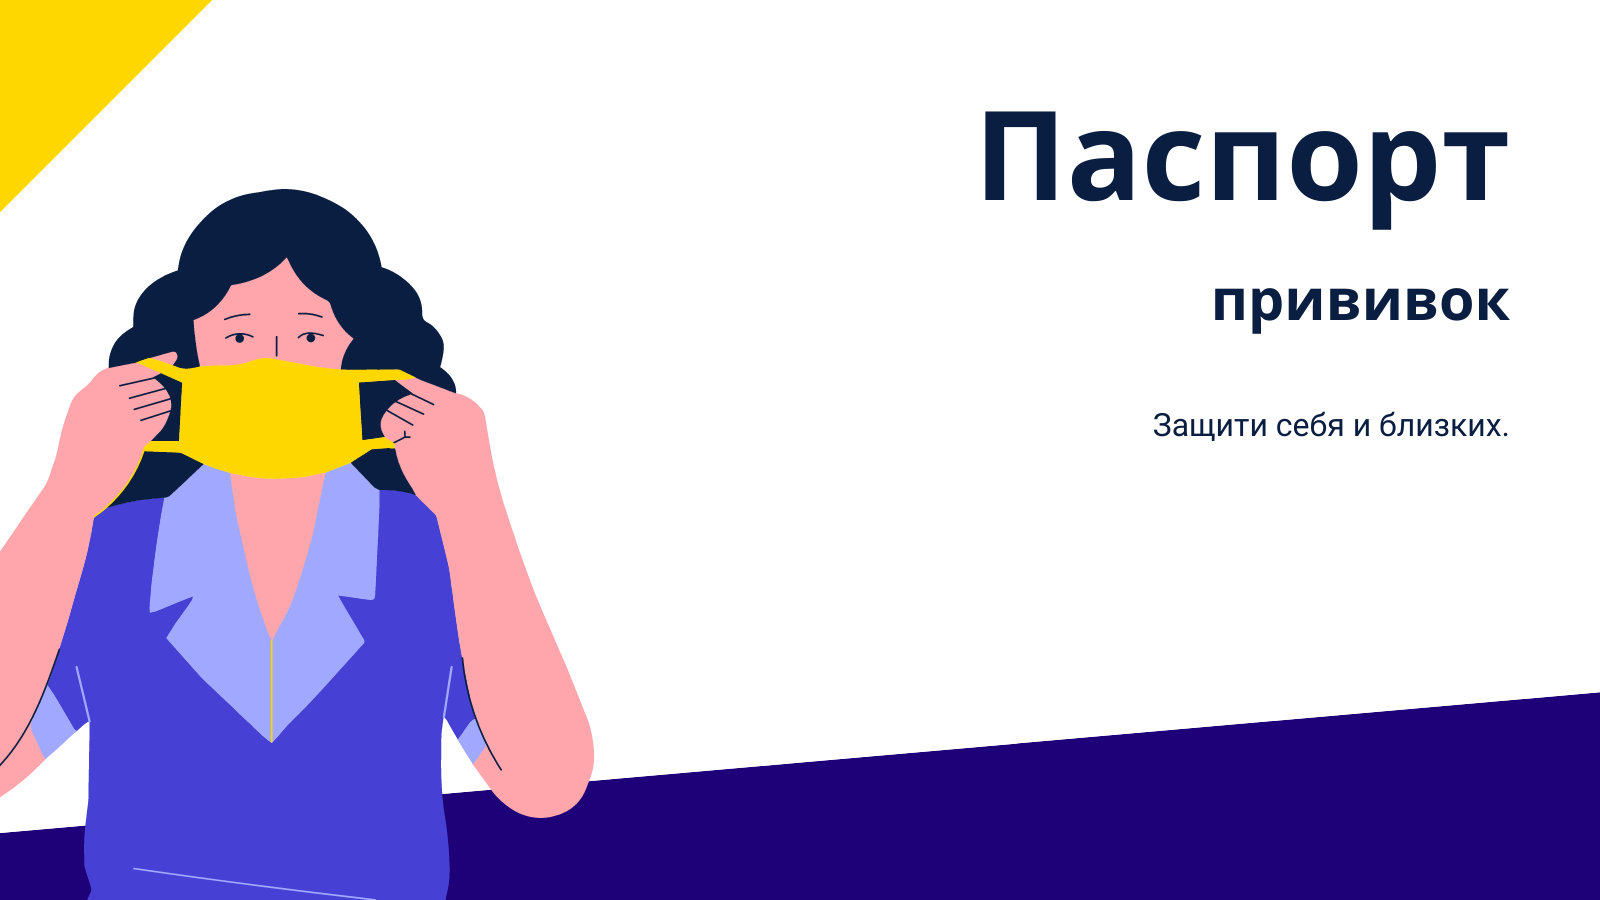
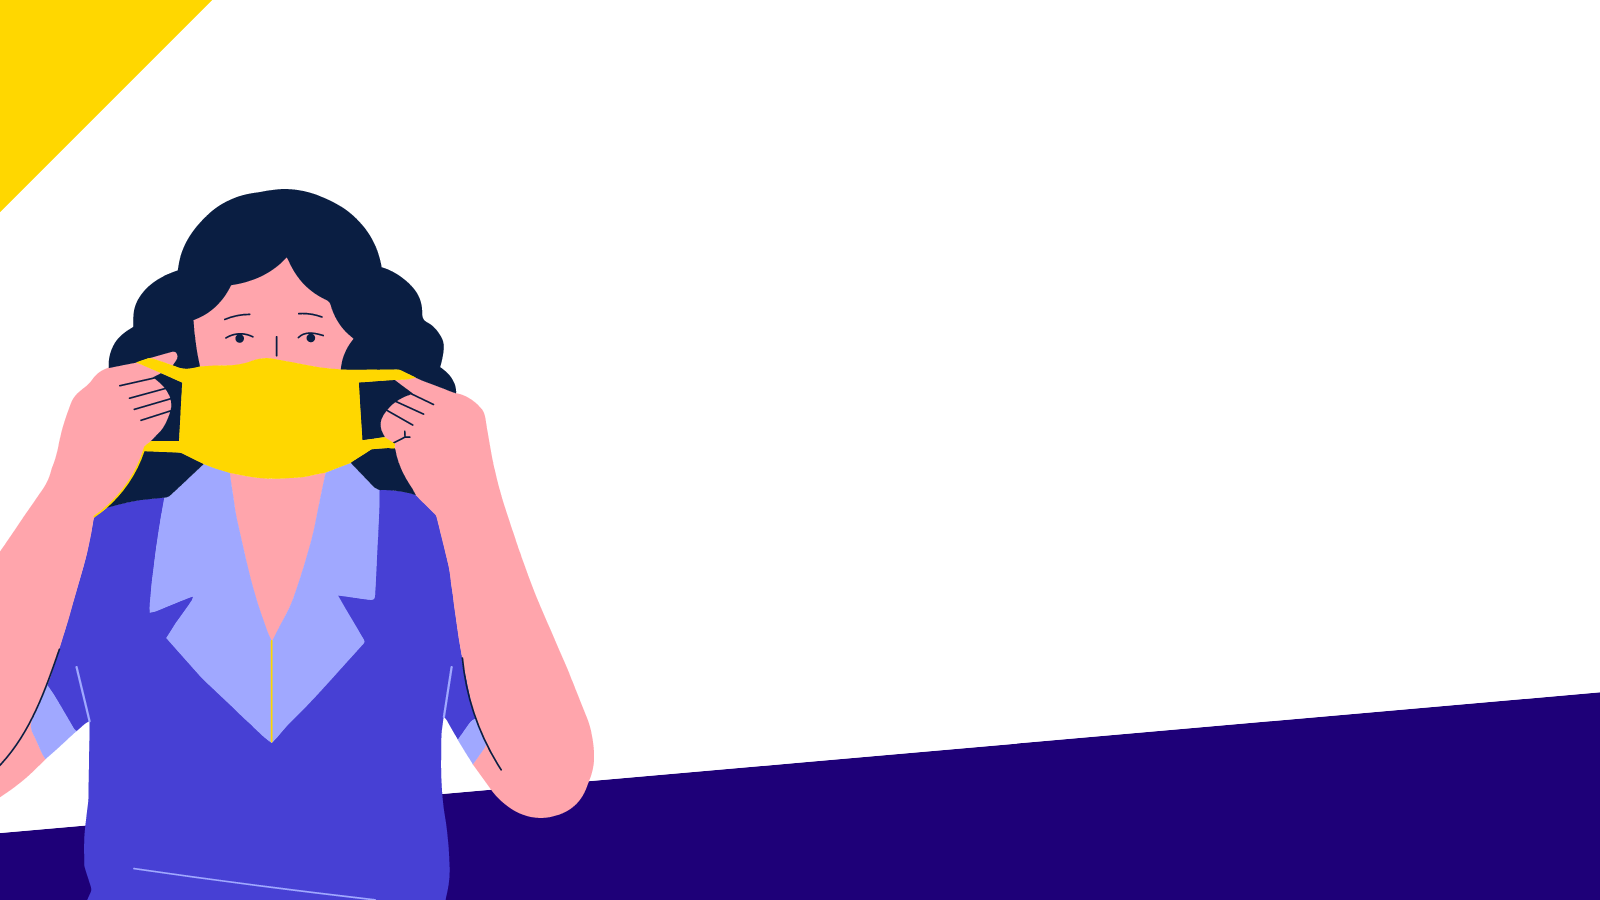
добавил /promo страницу

Changed region(s): [[0.5938, 0.1244, 0.9375, 0.2489], [0.75, 0.3111, 0.9375, 0.3733], [0.7188, 0.4667, 0.9375, 0.4978]]

diff --git a/vaccineapp/templates/vaccineapp/collection_list.html b/vaccineapp/templates/vaccineapp/collection_list.html
@@ -1,53 +1,61 @@
 {% extends 'base.html'%} {% load static %} {%block content%}
-<div class="row">
-  <form method="GET" style="margin-bottom: 50px" class="w-100">
-    <div class="row justify-content-center">
-      <div class="w-80" style="margin-right: 20px">
-        <input
-          name="search"
-          type="text"
-          class="form-control"
-          value="{{request.GET.search}}"
-          id="ajax-search"
-        />
-      </div>
-      <div class="w-30">
-        <input type="submit" value="Search" class="btn btn-success" />
-      </div>
-    </div>
-    {%csrf_token%}
-  </form>
-</div>
-<div class="row" style="margin: 10px;">
-  <div class="col-12">
-    <div class="row justify-content-center" style="margin: 10px;"><button id="ajax-btn" class="btn btn-primary">Ajax</button></div>
-    <div class="row"><div id="AJAX"></div></div>
-  </div>
-  
-</div>
-<div class="row">
-  {%for collection in collection_list%}
-  <div class="col-lg-4 col-md-6 col-sm-12">
-    <div class="article collection__article">
-      <div class="collection__container" onclick="redirect('{{collection.get_absolute_url}}')">
-        <div class="row">
-          <div class="col-md-12"><h2>{{collection.name}}</h2></div>
+
+<main role="main" class="container">
+  <div class="row">
+    <form method="GET" style="margin-bottom: 50px" class="w-100">
+      <div class="row justify-content-center">
+        <div class="w-80" style="margin-right: 20px">
+          <input
+            name="search"
+            type="text"
+            class="form-control"
+            value="{{request.GET.search}}"
+            id="ajax-search"
+          />
         </div>
-        <hr />
-        <div class="row">
-          <div class="col-md-12">
-            <ul>
-              {%for disease in collection.diseases.all %}
-              <li>{{disease.name}}</li>
-              {%endfor%}
-            </ul>
+        <div class="w-30">
+          <input type="submit" value="Search" class="btn btn-success" />
+        </div>
+      </div>
+      {%csrf_token%}
+    </form>
+  </div>
+  <div class="row" style="margin: 10px">
+    <div class="col-12">
+      <div class="row justify-content-center" style="margin: 10px">
+        <button id="ajax-btn" class="btn btn-primary">Ajax</button>
+      </div>
+      <div class="row"><div id="AJAX"></div></div>
+    </div>
+  </div>
+  <div class="row">
+    {%for collection in collection_list%}
+    <div class="col-lg-4 col-md-6 col-sm-12">
+      <div class="article collection__article">
+        <div
+          class="collection__container"
+          onclick="redirect('{{collection.get_absolute_url}}')"
+        >
+          <div class="row">
+            <div class="col-md-12"><h2>{{collection.name}}</h2></div>
+          </div>
+          <hr />
+          <div class="row">
+            <div class="col-md-12">
+              <ul>
+                {%for disease in collection.diseases.all %}
+                <li>{{disease.name}}</li>
+                {%endfor%}
+              </ul>
+            </div>
           </div>
         </div>
       </div>
     </div>
+    {%endfor%}
   </div>
-  {%endfor%}
-</div>
+</main>
+
 <script>
   function redirect(url) {
     window.location = url;

diff --git a/vaccineapp/templates/vaccineapp/collection_detail.html b/vaccineapp/templates/vaccineapp/collection_detail.html
@@ -1,7 +1,8 @@
 {% extends 'base.html'%} {% load static %} {%block content%}
-<a href="/collections" class="btn btn-success">&lt; Назад</a>
-<h2 class="text-center">{{collection.name}}</h2>
-{%for disease in collection.diseases.all%}
+<main role="main" class="container">
+  <a href="/collections" class="btn btn-success">&lt; Назад</a>
+  <h2 class="text-center">{{collection.name}}</h2>
+  {%for disease in collection.diseases.all%}
   <div disease-id="{{disease.pk}}" class="collection_disease_item">
     <h4>{{disease.name}}</h4>
     <hr />
@@ -12,7 +13,14 @@
     {%for vaccine in disease.vaccines.all %}
     <div class="row">
       <div class="form-check ml-5 col-5">
-        <input class="form-check-input vaccine-radiocbx" type="radio" name="vaccine-disease-{{disease.pk}}" id="vaccine-{{vaccine.pk}}" vaccine-id="{{vaccine.pk}}" checked>
+        <input
+          class="form-check-input vaccine-radiocbx"
+          type="radio"
+          name="vaccine-disease-{{disease.pk}}"
+          id="vaccine-{{vaccine.pk}}"
+          vaccine-id="{{vaccine.pk}}"
+          checked
+        />
         <label class="form-check-label" for="vaccine-{{vaccine.pk}}">
           {{vaccine.name}}
         </label>
@@ -21,23 +29,35 @@
     </div>
     {%endfor%}
   </div>
-  <div style="margin:30px;"></div>
-{%endfor%}
+  <div style="margin: 30px"></div>
+  {%endfor%}
 
-<div class="collection__breakline"></div>
+  <div class="collection__breakline"></div>
 
-<h4>Участники:</h4>
-{%for person in persons.all%}
-<div class="form-check ml-5">
-  <input class="form-check-input person-cbx" type="checkbox" value="" id="cbx-{{person.pk}}" person-id={{person.pk}}>
-  <label class="form-check-label" for="cbx-{{person.pk}}">
-    {{person.name}}
-  </label>
-</div>
-{%endfor%}
+  <h4>Участники:</h4>
+  {%for person in persons.all%}
+  <div class="form-check ml-5">
+    <input
+      class="form-check-input person-cbx"
+      type="checkbox"
+      value=""
+      id="cbx-{{person.pk}}"
+      person-id="{{person.pk}}"
+    />
+    <label class="form-check-label" for="cbx-{{person.pk}}">
+      {{person.name}}
+    </label>
+  </div>
+  {%endfor%}
 
-<button type="button" class="btn btn-primary сollection_detail__save" id="save-person-vaccine">Добавить вакцины</button>
-
+  <button
+    type="button"
+    class="btn btn-primary сollection_detail__save"
+    id="save-person-vaccine"
+  >
+    Добавить вакцины
+  </button>
+</main>
 <script>
   $('#save-person-vaccine').on('click', function() {
     var data = [];
@@ -59,7 +79,7 @@
       var disease_id = elem.getAttribute("disease-id");
       var vaccineElem = $(elem).find(".vaccine-radiocbx:checked")[0];
       var vaccine_id = vaccineElem.getAttribute('vaccine-id');
-      
+
       data.push({
         vaccine_id: vaccine_id,
         disease_id: disease_id
@@ -73,10 +93,10 @@
 
     $.ajax({
       type: "POST",
-      url: '/api/person-vaccine/', 
+      url: '/api/person-vaccine/',
       dataType: 'json',
       contentType:"application/json; charset=utf-8",
-      data: JSON.stringify(d), 
+      data: JSON.stringify(d),
       success: function() {
         window.location = '/collections';
       },

diff --git a/vaccineapp/templates/index.html b/vaccineapp/templates/index.html
@@ -3,6 +3,8 @@
 
 
 {%block content%}
+
+  <main role="main" class="container">
     {% for person in person_list %}
     <div class="jumbotron vaccine-card my-round">
       <div class="row">
@@ -90,9 +92,13 @@
     
     
     
-    <div class="text-center" id="add_person_btn">
+    <div class="text-center" id="add_person_btn" style="margin-bottom: 50px;">
       <button type="button" class="btn add-btn align-middle">Добавить человека</button>
     </div>
+
+    
+    
+  </main>
     <script>
       var btn = document.querySelector("#add_person_btn");
       var personForm = document.querySelector("#new-person-form");

diff --git a/vaccineapp/templates/promo.html b/vaccineapp/templates/promo.html
@@ -1,0 +1,23 @@
+{% extends 'base.html'%}
+{% load static %}
+
+
+{%block content%}
+<main class="promo-container container-fluid d-flex justify-content-end">
+    <div class="row align-self-center">
+        <div class="col-12" style="margin-right: 50px;">
+            <div class="row">
+                <h1 class="">Паспорт прививок</h1>
+            </div>
+            <div class="row">
+                <h4 class="">Защити себя и близких</h4>
+            </div>
+        </div>
+    </div>
+</main>
+<style>
+body {
+  overflow: hidden;
+}
+</style>
+{%endblock%}

diff --git a/vaccineapp/templates/base.html b/vaccineapp/templates/base.html
@@ -21,9 +21,7 @@
 <body>
   {% include "navbar.html" %}
 
-  <main role="main" class="container">
-    {%block content%} {%endblock%}
-  </main>
+  {%block content%} {%endblock%}
 
   {% comment %} <script src="https://code.jquery.com/jquery-3.5.1.slim.min.js"
     integrity="sha384-DfXdz2htPH0lsSSs5nCTpuj/zy4C+OGpamoFVy38MVBnE+IbbVYUew+OrCXaRkfj"

diff --git a/vaccineapp/static/style.css b/vaccineapp/static/style.css
@@ -235,3 +235,15 @@ nav .menu {
   margin: 30px;
   margin-left: 0;
 }
+
+
+/* promo.html */
+.promo-container {
+  background: url("img/promo_image.png") no-repeat center center fixed;
+  background-size: cover;
+  position: absolute; 
+  top: 0; 
+  left: 0; 
+  height: 100%; 
+  width: 100%;
+}

diff --git a/vaccineapp/views.py b/vaccineapp/views.py
@@ -7,6 +7,9 @@ from django.views.generic import ListView, DetailView
 from django.http import JsonResponse
 # Create your views here.
 
+def promo(request):
+    return render(request, 'promo.html') 
+
 def index(request):
     # # if not request.user:
     # #     HttpResponseRedirect(reverse('promo'))

diff --git a/vaccineapp/urls.py b/vaccineapp/urls.py
@@ -10,4 +10,5 @@ urlpatterns = [
     path('', views.index, name='index'),
     path('collections', views.CollectionList.as_view(), name='collection-list'),
     path('collections/<int:pk>/', views.CollectionDetail.as_view(), name='collection-detail'),
+    path('promo', views.promo, name='promo'),
 ]
